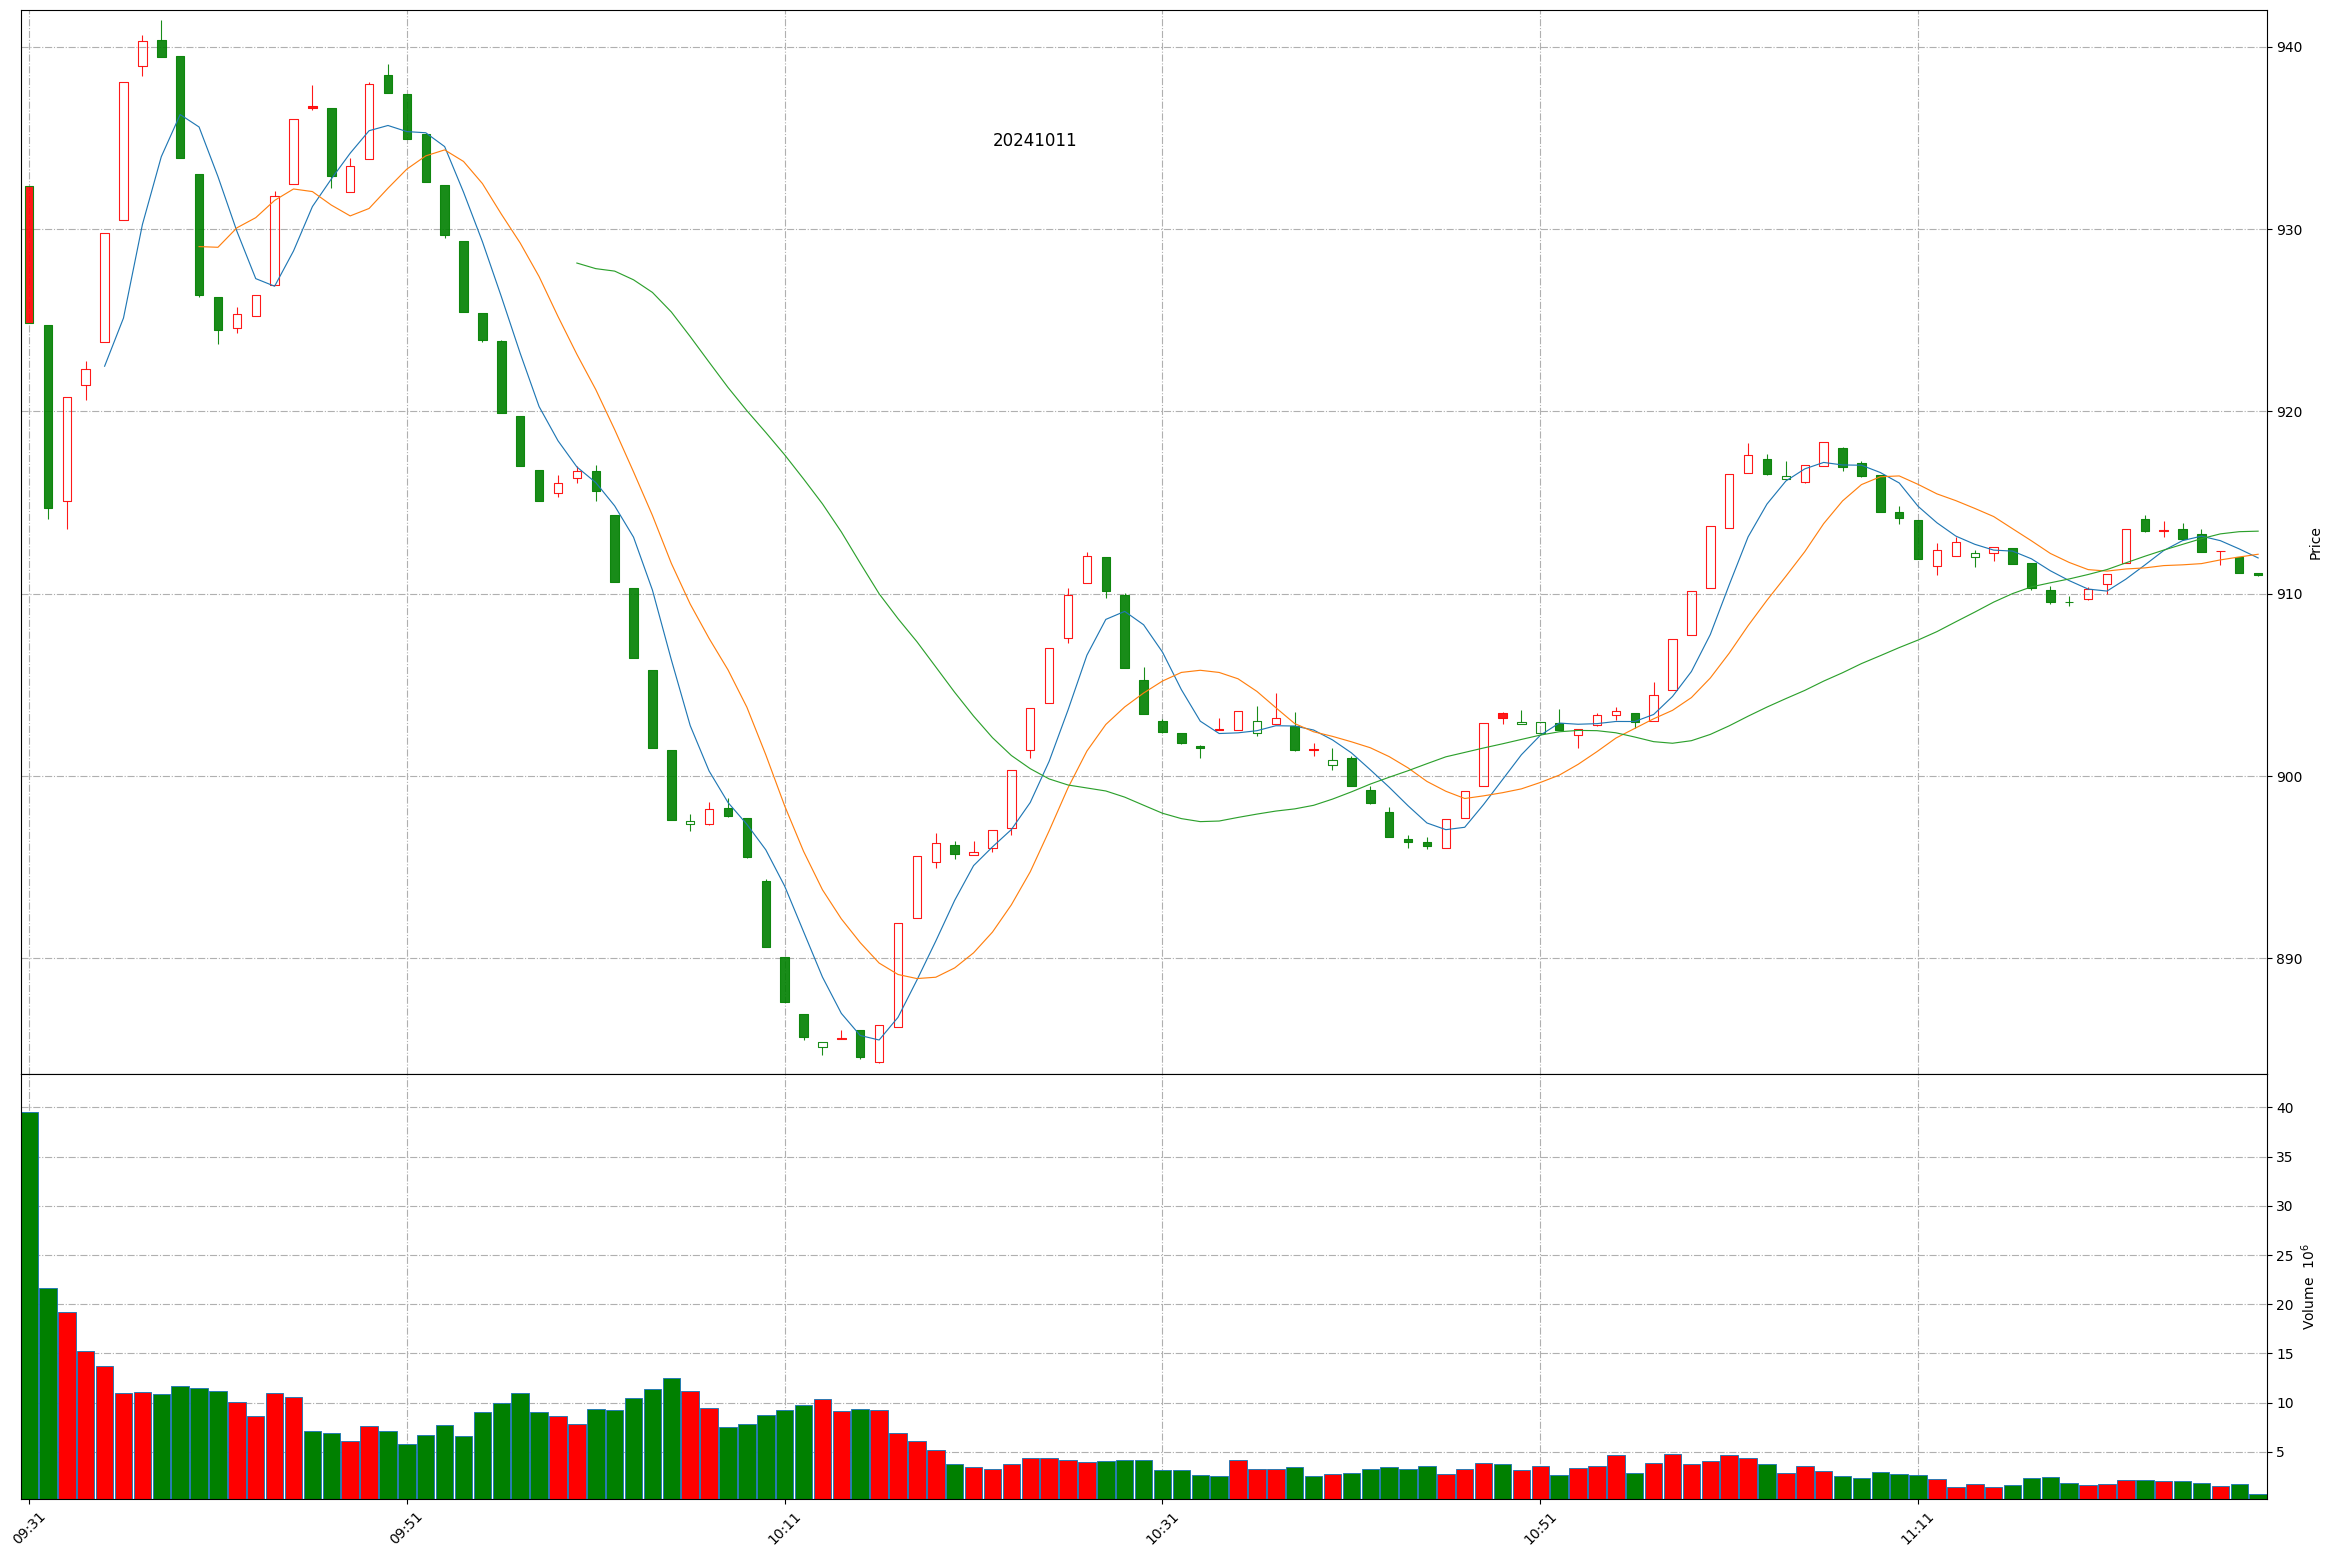
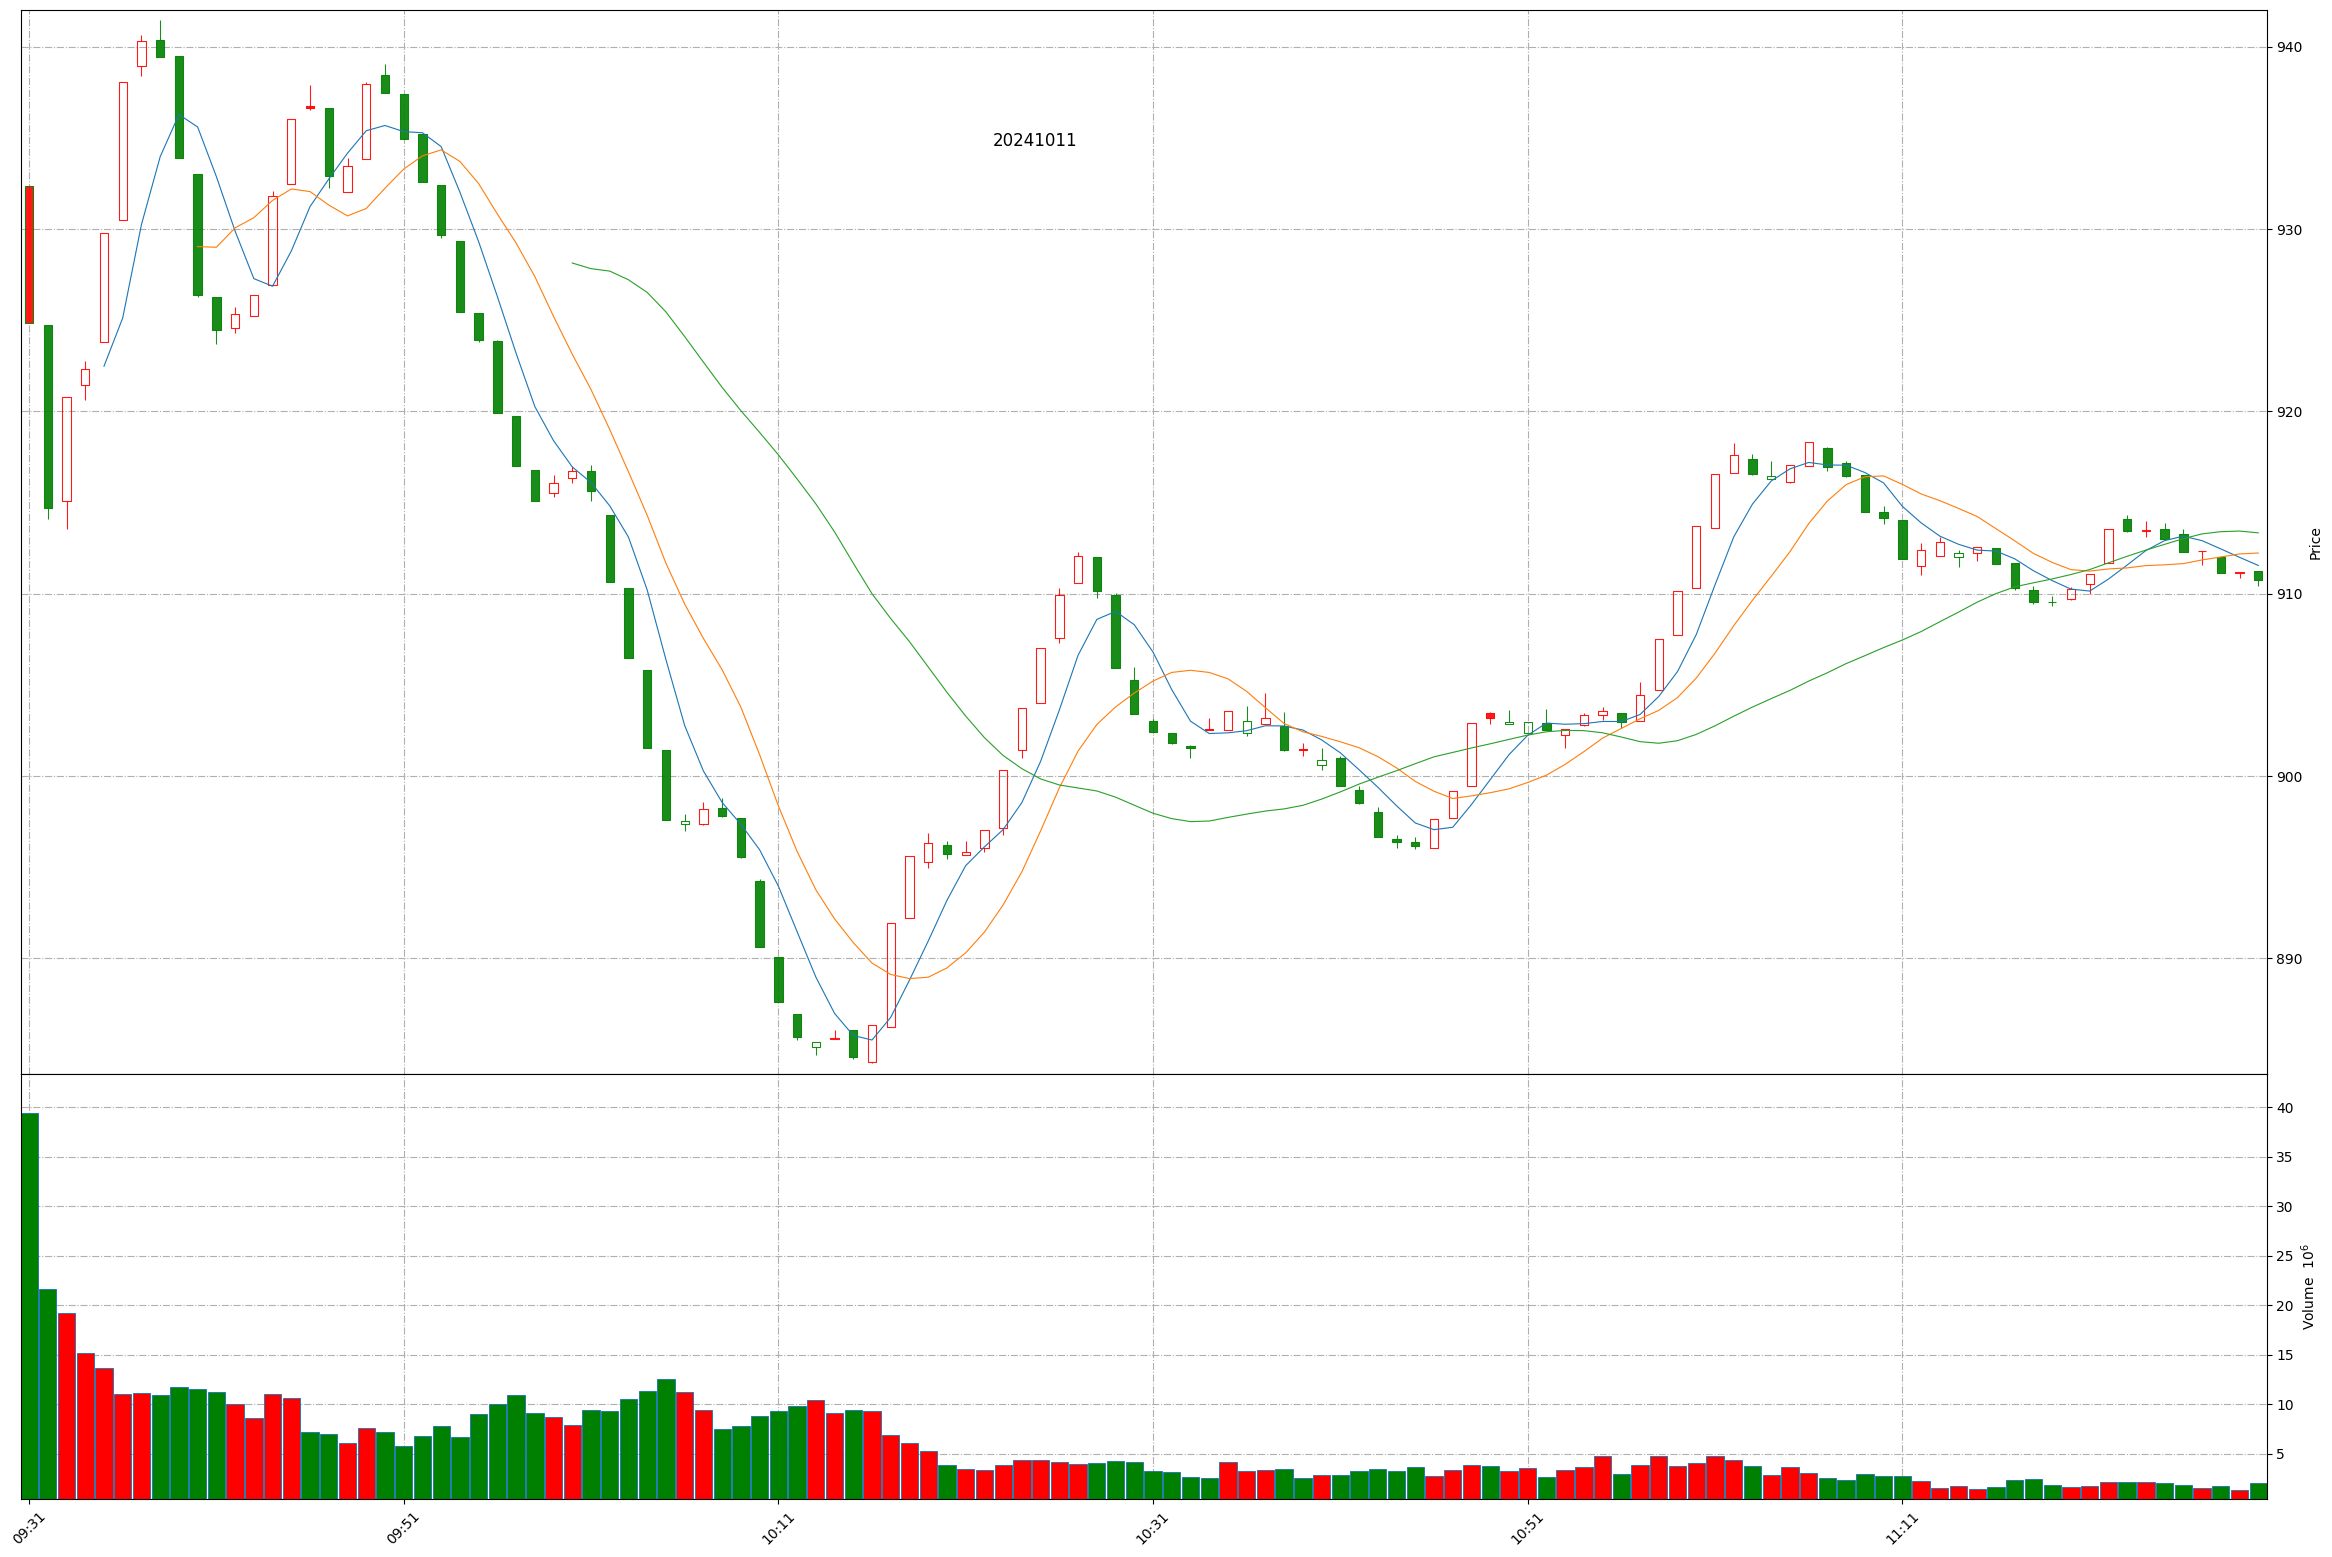
Github action update at 2024-10-11 11:31:08.

diff --git a/README.md b/README.md
@@ -1,11 +1,11 @@
 
 # Daily-A-share-market-quotes 每日 A 股指数（5min 更新）- 20241011
 
-### 上证指数 20241011 11:28
+### 上证指数 20241011 11:31
 ![](./fig/2024/10/20241011-sh000001.png)
 
-### 深证成指 20241011 11:28
+### 深证成指 20241011 11:31
 ![](./fig/2024/10/20241011-sz399001.png)
 
-### 北证50 20241011 11:28
+### 北证50 20241011 11:31
 ![](./fig/2024/10/20241011-bj899050.png)
